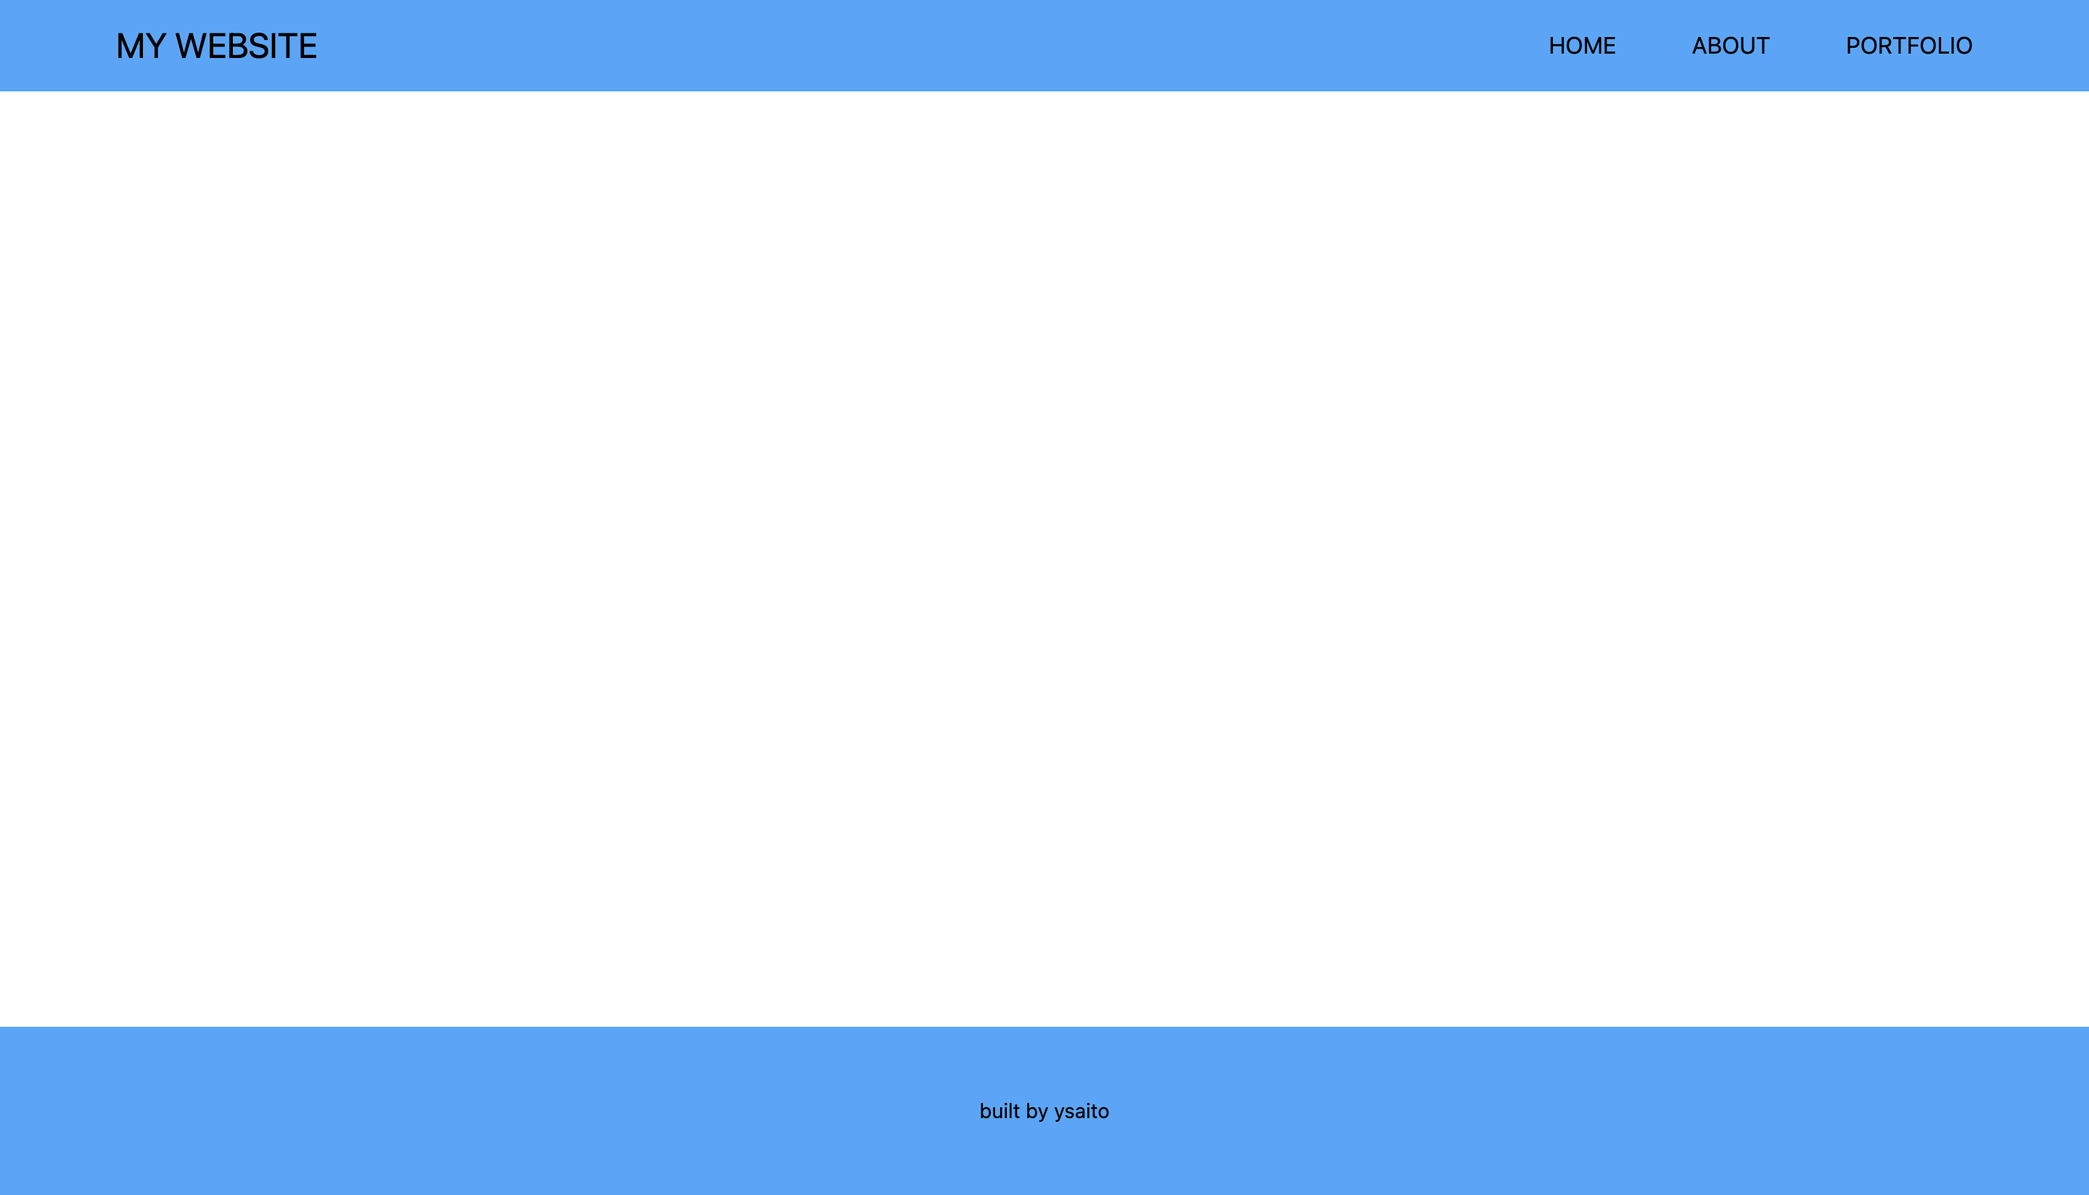
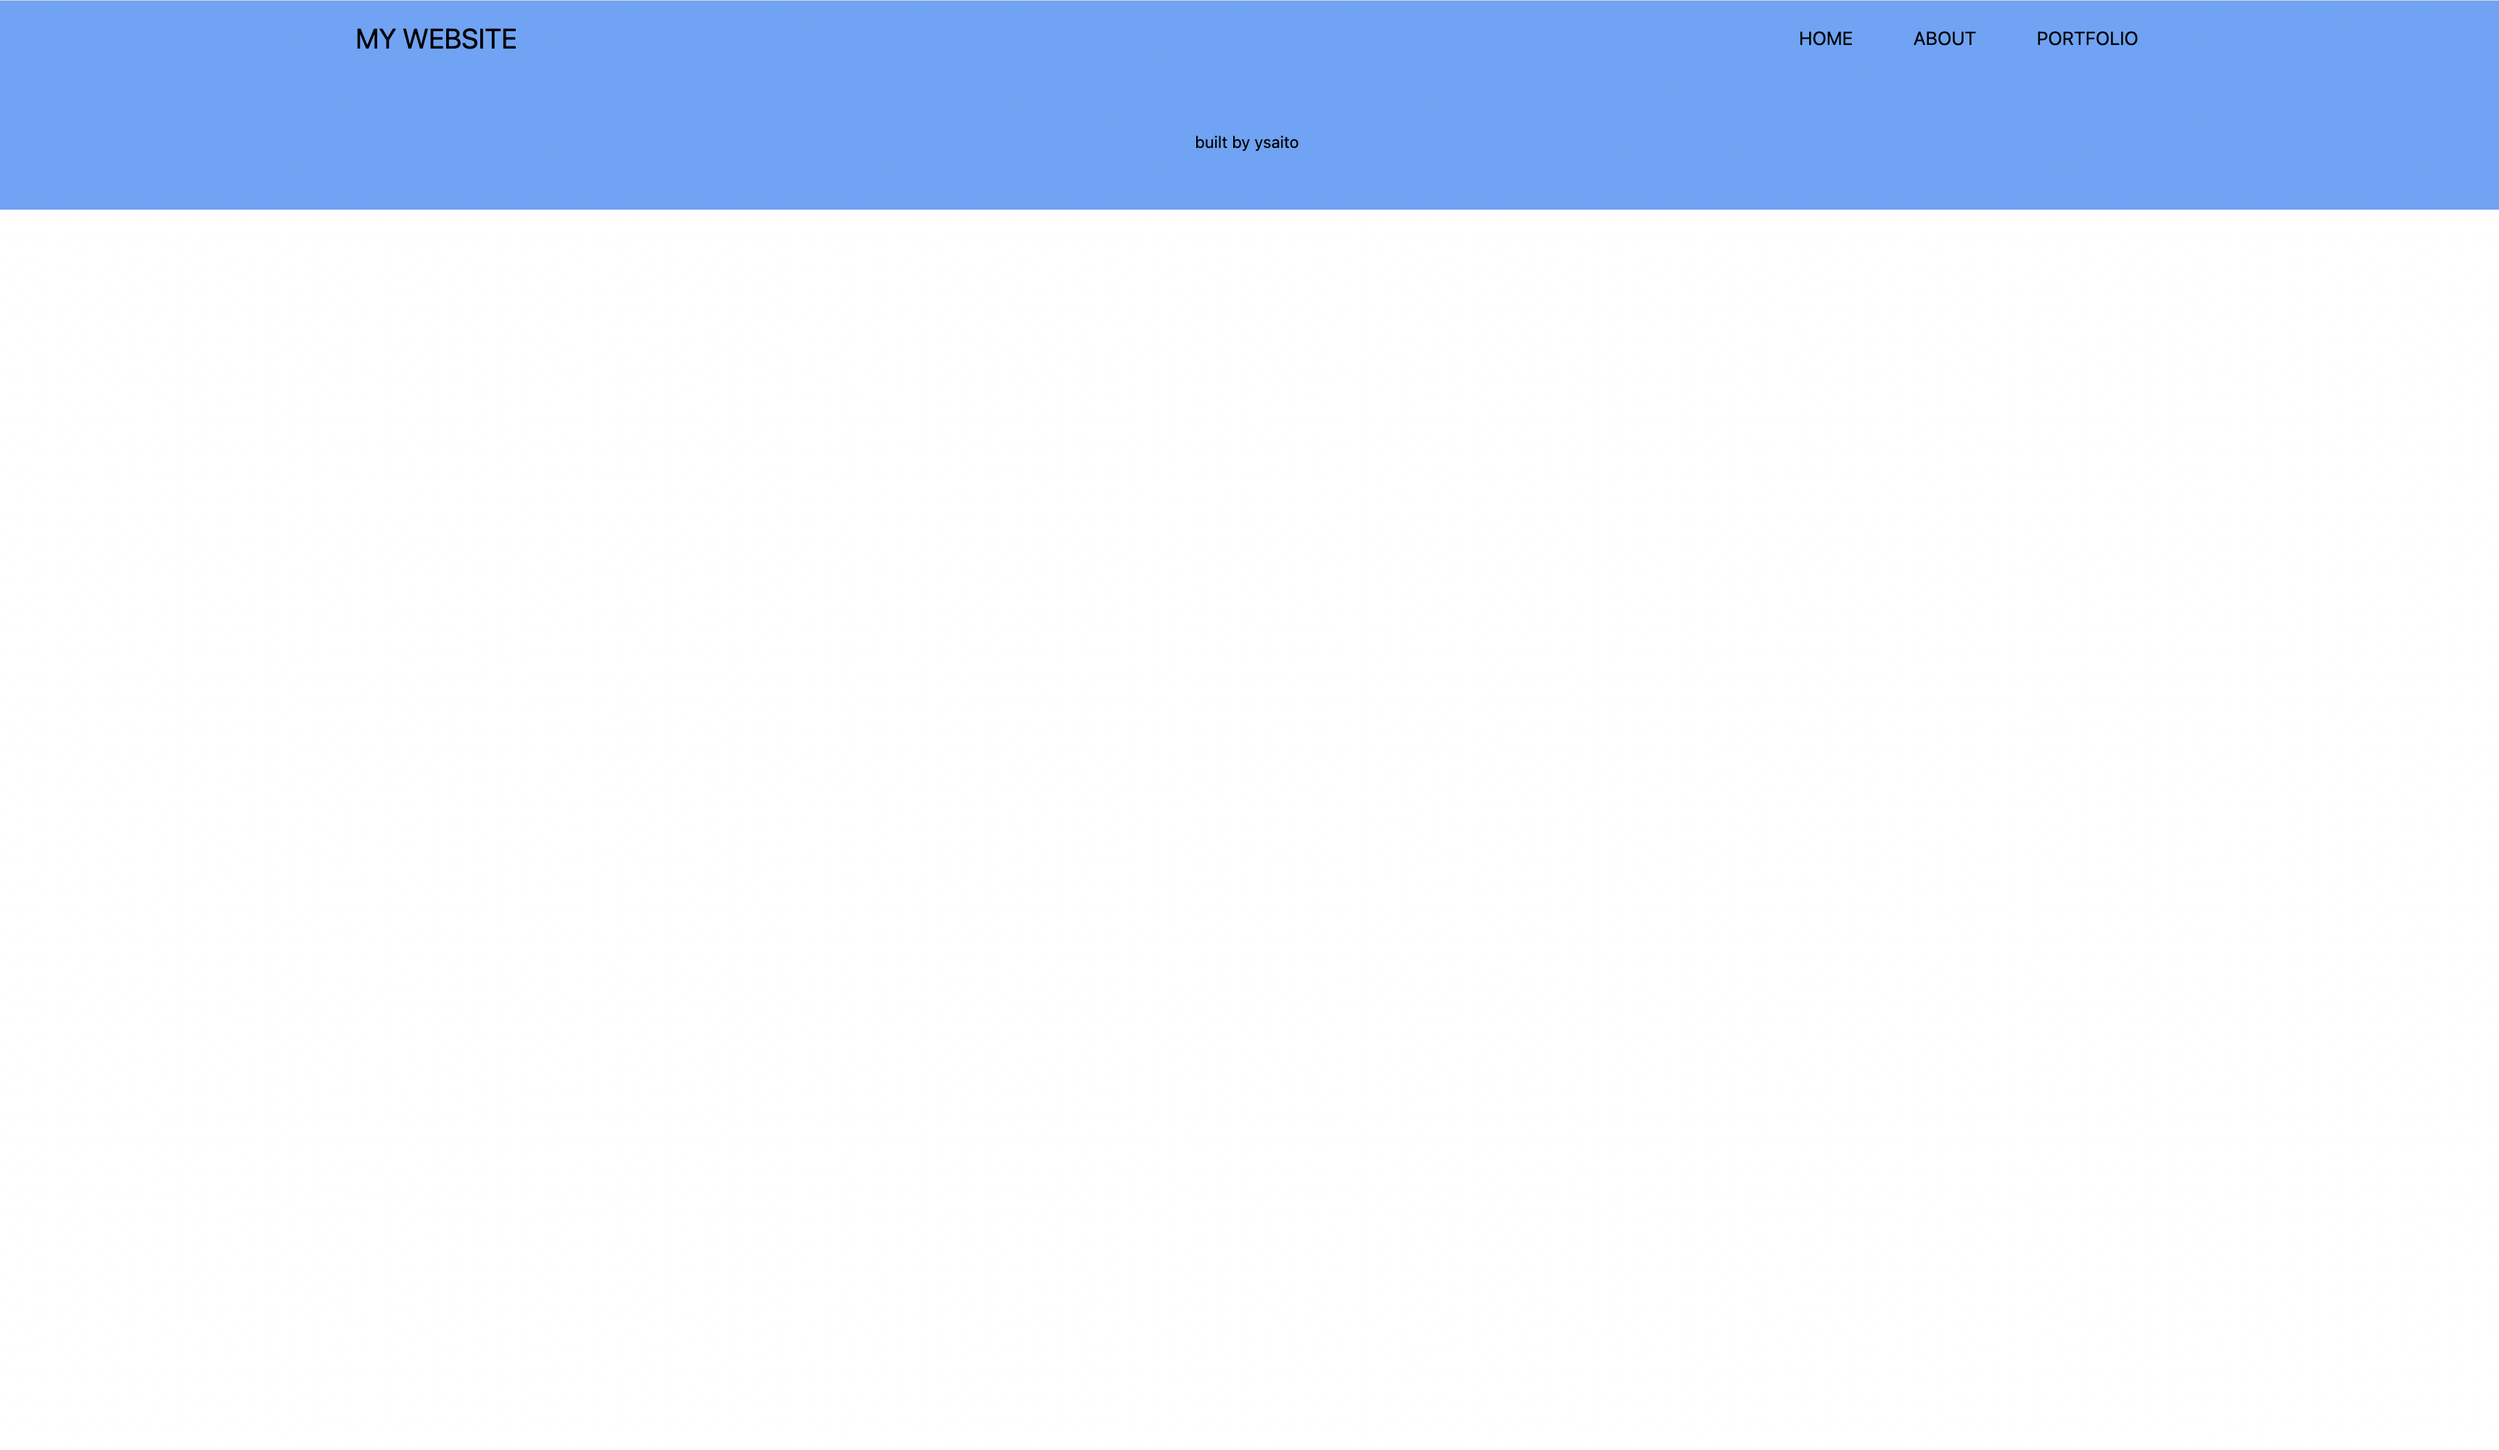
refactor

Changed region(s): [[0.0, 0.8356, 1.0, 1.0], [0.0, 0.0, 1.0, 0.1547]]

diff --git a/docs/ICP-Static-Site/ja/section-3/lesson-1_キャニスターの設定をしよう.md b/docs/ICP-Static-Site/ja/section-3/lesson-1_キャニスターの設定をしよう.md
@@ -2,7 +2,7 @@
 
 このレッスンでは、IC上にデプロイをするキャニスターの設定ファイルを作成します。
 
-以下のコマンドを実行し、`dfx.json`ファイルを作成します。必ず、`ic-static-website/`下(`package.json`と同じ階層)に作成してください。
+以下のコマンドを実行し、`dfx.json`ファイルを作成します。必ず、`icp-static-site/`下(`package.json`と同じ階層)に作成してください。
 
 ```bash
 touch dfx.json
@@ -29,7 +29,79 @@ touch dfx.json
 
 `"type:`は、キャニスターがどのようなタイプであるかを指定します。ICが解釈するためのもので、今回は静的Webサイトを構築する画像やファイルをホストするので、`assets`というタイプを指定しています。他には、バックエンドのコードを記述したキャニスターには`rust`や`motoko`といったタイプを指定します。
 
-`"source":`は、実際にアップロードしたいフォルダを指定します。ここでは、セクション4で実際にデプロイコマンドを実行した際に作成される、index.htmlやアセットを格納したフォルダ`dist`を指定します。
+`"source":`は、実際にアップロードしたいフォルダを指定します。ここでは、デプロイコマンドを実行した際に作成される、index.htmlやアセットを格納したフォルダ`dist`を指定します。
+
+### 🤖 ローカル環境にデプロイしてみよう
+
+それでは、ここまでのプロジェクトの構築が正しくできているかを、本番環境にデプロイする前にローカル環境へデプロイをして確認してみたいと思います。
+
+`icp-static-site`ディレクトリ直下で、下記のコマンドを実行しましょう。
+
+```bash
+# バックグラウンドでローカル環境を立ち上げます（数秒かかります）
+dfx start --clean --background
+
+# 環境の立ち上げが終わったらデプロイをします
+dfx deploy
+```
+
+（出力例）
+```bash
+Deploying all canisters.
+Creating a wallet canister on the local network.
+The wallet canister on the "local" network for user "default" is "bnz7o-iuaaa-aaaaa-qaaaa-cai"
+Creating canisters...
+Creating canister website...
+website canister created with canister id: bkyz2-fmaaa-aaaaa-qaaaq-cai
+Building canisters...
+Building frontend...
+Installing canisters...
+Creating UI canister on the local network.
+The UI canister on the "local" network is "bd3sg-teaaa-aaaaa-qaaba-cai"
+Installing code for canister website, with canister ID bkyz2-fmaaa-aaaaa-qaaaq-cai
+Uploading assets to asset canister...
+Fetching properties for all assets in the canister.
+Starting batch.
+Staging contents of new and changed assets in batch 1:
+  /index.html 1/1 (367 bytes) sha 162d9a885ddad425d1e682e436a5fa6d3ba0455f2aac94b2971521e867fb9ad4 
+  /assets/index.6eafe1ac.css 1/1 (6321 bytes) sha 6eafe1ac7fb4037eb205b8a865a9c9c3800dbc63caaca80dcee1a1490070a6c9 
+  /assets/index.6eafe1ac.css (gzip) 1/1 (1975 bytes) sha 3ce3680a96865423f96753a305e6a159e25f9b5e9bc4e3cc607cf075de52759b 
+  /vite.svg 1/1 (1497 bytes) sha 4a748afd443918bb16591c834c401dae33e87861ab5dbad0811c3a3b4a9214fb 
+  /assets/unchain_logo.9fc9ba05.png 1/1 (11126 bytes) sha 9fc9ba059ecdc2fc1e35f0b6083c10bb80bc1170c744999c076f3e75f0274581 
+  /assets/index.02ce13a8.js 1/1 (8726 bytes) sha af17fea9c836f8e2b90d0cbcea12e1e41fafc288aee722753e33457e11a5b9e9 
+  /assets/index.02ce13a8.js (gzip) 1/1 (3376 bytes) sha 12ccec78eca1fcd5f15ac08507e2a3466f7f8a34a3e77fe63e011b01a757e224 
+  /index.html (gzip) 1/1 (273 bytes) sha 48c939c1335d5c580283aa15755b80ddfa635bbbda93822dcac20e6a4c69d5cb 
+Committing batch.
+Deployed canisters.
+```
+
+デプロイが完了し、プロジェクト内に`.dfx/local`フォルダ、`dist`フォルダが生成したことを確認しましょう。
+
+.dfxフォルダには、実際にキャニスター内へコピーされるコンパイルされたソースコードや、キャニスターIDを定義したファイルなどが格納されます。
+
+それでは、ブラウザ上で確認をしてみましょう。デプロイされたキャニスターのIDが必要なので、`.dfx/local/canister_ids.json内の"website:"`の値、または下記のコマンドを実行して取得しましょう。
+
+```bash
+dfx canister id website
+```
+
+キャニスターIDをコピーして、下記のようにURLを指定してブラウザで表示します。
+
+```
+http://127.0.0.1:4943?canisterId=YOUR_CANISTER_ID
+```
+
+（実行例）
+
+![](/public/images/ICP-Static-Site/section-3/3_1_1.png)
+
+作成したサイトが問題なく表示されることを確認します。
+
+ローカル環境へのデプロイが成功したら、動作しているdfxを止めます。
+
+```
+dfx stop
+```
 
 ### 🙋♂ 質問する
 

diff --git a/docs/ICP-Static-Site/ja/section-2/lesson-1_サンプルプロジェクトを作成しよう.md b/docs/ICP-Static-Site/ja/section-2/lesson-1_サンプルプロジェクトを作成しよう.md
@@ -1,7 +1,7 @@
 ### 🗂 サンプルプロジェクトを作成しよう
 
 ```bash
-npm create vite@latest
+npm create vite@3
 ```
 
 いくつかの質問に答えて、プロジェクトの設定を行います。
@@ -9,13 +9,13 @@ npm create vite@latest
 最初にプロジェクト名は、好きな名前に変えていただいて大丈夫です（ただし、この後もここで使った名前を使うので同じ名前にしておいた方がスムーズに進めることができるかと思います）。
 
 ```bash
-? Project name: › ic-static-website
+? Project name: › icp-static-site
 ```
 
 パッケージ名はデフォルトでプロジェクト名が入るので、そのままEnterを押します。
 
 ```bash
-? Package name: › ic-static-website
+? Package name: › icp-static-site
 ```
 
 フレームワークは`svelte`を選択します。
@@ -41,8 +41,8 @@ npm create vite@latest
 ターミナルに以下のような出力があり、プロジェクトが作成されます。
 
 ```bash
-✔ Project name: … ic-static-website
-✔ Package name: … ic-static-website
+✔ Project name: … icp-static-site
+✔ Package name: … icp-static-site
 ✔ Select a framework: › svelte
 ✔ Select a variant: › svelte
 
@@ -50,7 +50,7 @@ Scaffolding project in /Users/user/Desktop/div/IC-static-website...
 
 Done. Now run:
 
-  cd IC-static-website
+  cd icp-static-website
   npm install
   npm run dev
 
@@ -61,13 +61,13 @@ Done. Now run:
 ここでは、`tree`コマンドを実行して確認したいと思います。`-L 1`は1つ下の階層まで、`-F`はディレクトリを`/`で表現する、`-a`は隠しファイル（.ファイル）を表示するという意味です。
 
 ```bash
-tree -L 1 -F -a ic-static-website
+tree -L 1 -F -a icp-static-site
 ```
 
 以下のような構成になっていることを確認してください。
 
 ```bash
-ic-static-website/
+icp-static-site/
 ├── .gitignore
 ├── .vscode/
 ├── README.md
@@ -82,7 +82,7 @@ ic-static-website/
 それでは、プロジェクトへ移動して実際に起動してみましょう。
 
 ```bash
-cd ic-static-website
+cd icp-static-site
 npm install
 npm run dev
 ```

diff --git a/docs/ICP-Static-Site/ja/section-1/lesson-1_サイクル取得の申請をしよう.md b/docs/ICP-Static-Site/ja/section-1/lesson-1_サイクル取得の申請をしよう.md
@@ -14,7 +14,7 @@
 
 それでは、作業していきましょう！
 
-[こちら](https://anv4y-qiaaa-aaaal-qaqxq-cai.ic0.app/)にアクセスをして、`REQUEST CYCLES`ボタンを押し、 `DFINITY DEV OFFICIAL`というDiscodeサーバー に接続をしましょう。
+[こちら](https://anv4y-qiaaa-aaaal-qaqxq-cai.ic0.app/)にアクセスをして、`REQUEST CYCLES`ボタンを押し、 `DFINITY DEV OFFICIAL`というDiscordサーバー に接続をしましょう。
 
 ![](/public/images/ICP-Static-Site/section-1/1_1_1.png)
 
@@ -26,26 +26,11 @@
 
 この後は、
 
-1. サーバー内の`FOUNDATION`の方がメッセージを確認（スタンプが押されます）
-2. DMが届き、質問に答える
-3. クーポンコードを受け取る
+1. サーバー内の`FOUNDATION`の方がメッセージを確認（スタンプが押されます）し、DMが送られてくる
+2. 質問フォームへのリンクが送られてくるので、アクセスをして回答する
+3. 回答が完了したことを返信すると、クーポンコードが送られてくる
 
 という流れになります。
-
-クーポンコードの取得がスムーズに行えるよう、2. で実際に受けた質問と返答のテンプレートを以下に掲示します。ぜひご活用ください！
-
-> Hi, I'm working as a Solution Architect at the Dfinity Foundation. Can I ask you a few questions before I'll get you a coupon code for a cycles wallet?
-
-    Hello. Yes, please.
-
-> How do you know about the IC and is the first blockchain platform you're working with?
-
-    I heard about IC from the web3 community. I have used Ethereum.
-
-> Any plans what you want to build already? And what are you most excited about with the IC?
-
-    First, I want to create a simple website and host it on IC.
-    I'm interested in completing everything by hosting it on the IC without worrying about the existing IT stack.
 
 なお、クーポンコードは発行されてから2週間の有効期限付きです。注意しましょう。
 

diff --git a/docs/ICP-Static-Site/ja/section-1/lesson-2_ツールをインストールしよう.md b/docs/ICP-Static-Site/ja/section-1/lesson-2_ツールをインストールしよう.md
@@ -3,14 +3,16 @@
 このレッスンでは、開発の準備をしていきます。
 それでは早速、ターミナルを開いて始めていきましょう！
 
-### 🦄 DFX をインストールする
+### 🦄 IC SDK をインストールする
 
-DFXとはDFINITYが提供する、開発したプロジェクトをICにデプロイ、管理するための主要なツールです。
+IC SDKとはDFINITYが提供する、ICPブロックチェーン上でキャニスター・スマートコントラクトを作成・管理するために使用されるソフトウェア開発キットです。
 
-以下のコマンドを実行し、インストールをします。
+[公式ドキュメント](https://internetcomputer.org/docs/current/developer-docs/setup/install/)を参考に、インストールをしていきましょう。
+
+今回は、バージョン`0.11.1`を指定してインストールをしたいと思います。ターミナルで以下のコマンドを実行しましょう。
 
 ```bash
-sh -ci "$(curl -fsSL https://smartcontracts.org/install.sh)"
+DFX_VERSION=0.11.1 sh -ci "$(curl -sSL https://internetcomputer.org/install.sh)"
 ```
 
 正しくインストールされたことを確認するために、以下を実行します。
@@ -19,7 +21,7 @@ sh -ci "$(curl -fsSL https://smartcontracts.org/install.sh)"
 dfx --version
 ```
 
-ターミナルにインストール時の最新バージョンが表示されたら完了です[（SDK リリースノートを参照）](https://internetcomputer.org/docs/current/developer-docs/updates/release-notes/)。
+バージョン`0.11.1`が表示されたら完了です。
 
 ```bash
 dfx 0.11.1

diff --git a/docs/ICP-Static-Site/ja/section-4/lesson-1_チェーン上にデプロイをしよう.md b/docs/ICP-Static-Site/ja/section-4/lesson-1_チェーン上にデプロイをしよう.md
@@ -2,7 +2,7 @@
 
 前回のセクションで、IC上にデプロイするための準備が完了しました。
 
-以下のコマンドを実行しましょう。必ず、`ic-static-website/`下で実行してください。
+以下のコマンドを実行しましょう。必ず、`icp-static-site/`下で実行してください。
 
 ```bash
 dfx deploy --network ic --with-cycles 1000000000000
@@ -18,12 +18,12 @@ Caused by: Failed while trying to deploy canisters.
       The post-build step failed for canister 'CANISTER_ID' (website) with an embedded error: Failed to build frontend for network 'ic'.: The command '"npm" "run" "build"' failed with exit status 'exit status: 1'.
 Stdout:
 
-> ic-static-website@0.0.0 build
+> icp-static-site@0.0.0 build
 > vite build
 
 
 Stderr:
-failed to load config from ../ic-static-website/vite.config.js
+failed to load config from ../icp-static-site/vite.config.js
 error during build:
 Error:
 You installed esbuild on another platform than the one you're currently using.

diff --git a/docs/ICP-Static-Site/ja/section-2/lesson-2_Tailwind CSSのセットアップをしよう.md b/docs/ICP-Static-Site/ja/section-2/lesson-2_Tailwind CSSのセットアップをしよう.md
@@ -2,10 +2,10 @@
 
 このレッスンでは、Tailwind CSSを使用するための準備を行います。
 
-`ic-static-website/`にいることを確認して、以下のコマンドを実行します。
+`icp-static-site/`にいることを確認して、以下のコマンドを実行します。
 
 ```bash
-npm install -D tailwindcss postcss autoprefixer
+npm install -D tailwindcss@3.1.8 postcss@8.4.16 autoprefixer@10.4.8
 ```
 
 次に、設定ファイルを作成します。
@@ -48,7 +48,7 @@ module.exports = {
 
 これでTailwind CSSの設定は完了です。きちんと機能しているか確認してみましょう。
 
-`./src/App.svelte`ファイルの15行目を、以下のように書き換えます。
+`./src/App.svelte`ファイルの15行目`h1`タグを、以下のように書き換えます。
 
 [App.svelte]
 

diff --git a/docs/ICP-Static-Site/ja/section-2/lesson-3_コンポーネントを作成しよう.md b/docs/ICP-Static-Site/ja/section-2/lesson-3_コンポーネントを作成しよう.md
@@ -143,9 +143,10 @@ touch ./src/lib/Footer.svelte
 
 では、ブラウザで表示を確認してみましょう。
 
+ナビゲーションバーの下にフッターが表示されていたら完成です！
+
 ![](/public/images/ICP-Static-Site/section-2/2_3_3.png)
 
-ウィンドウの最下部にフッターが表示されていたら完成です！
 
 ### 🙋♂ 質問する
 
